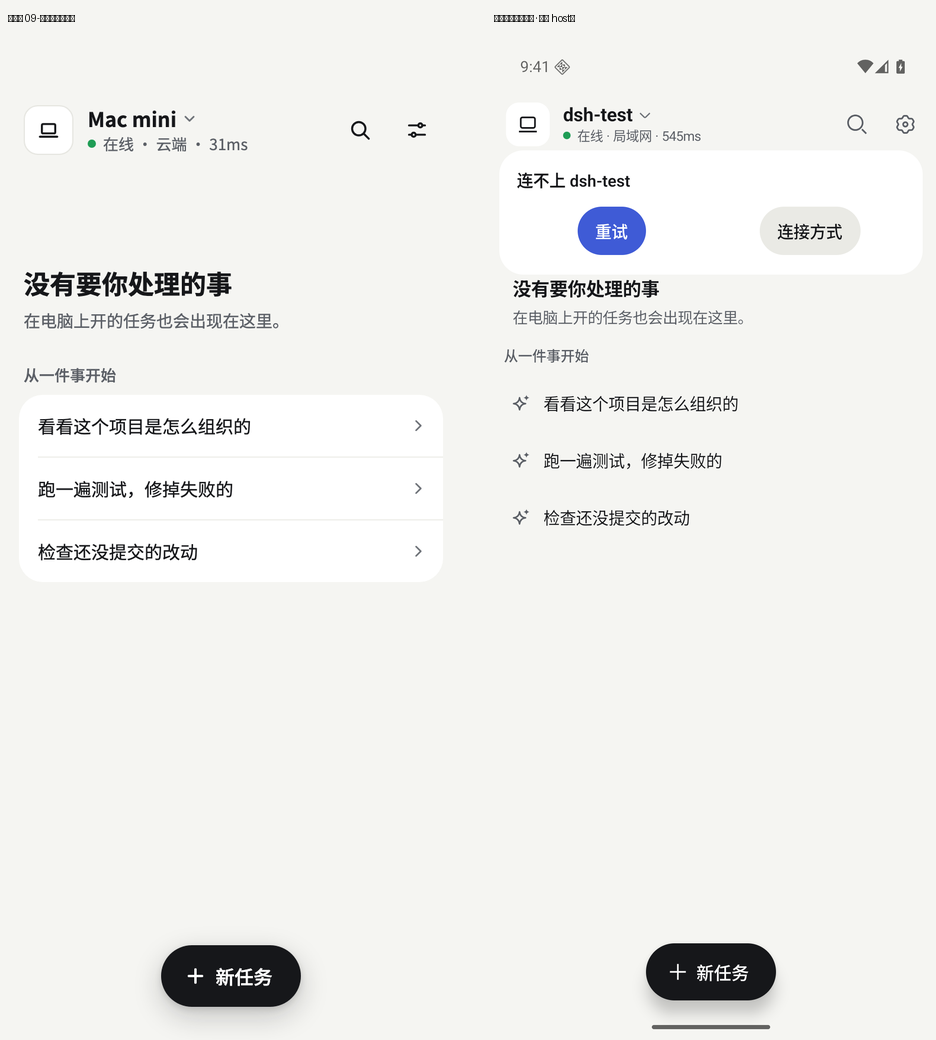
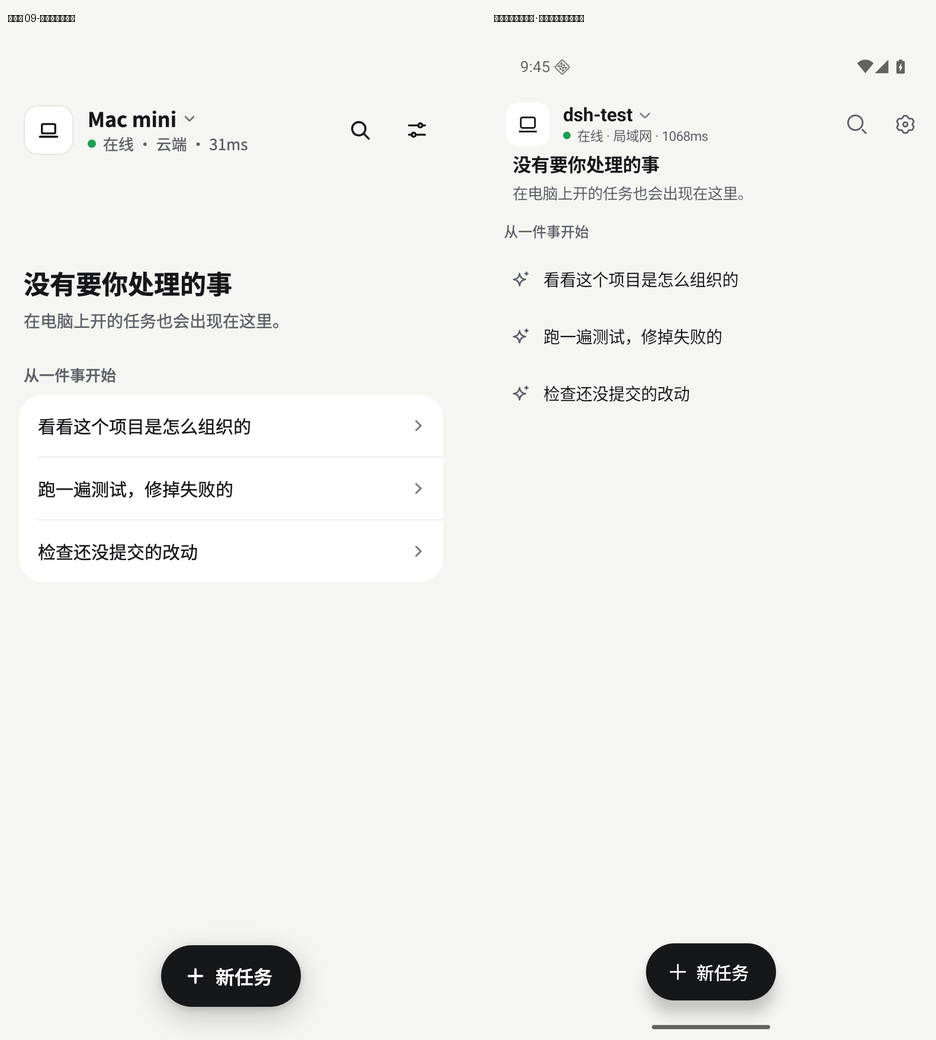
fix(android): 首页离线卡不再把「在线但空列表」当成连不上（隔离实例真机验证）
上一轮在模拟器 + 隔离 host 上抓到一处自相矛盾：顶栏「● 在线 · 局域网 · 545ms」，下面却显示
「连不上 dsh-test」离线卡 + 重试/连接方式。

根因：概况行/离线卡是一个 if-else——`if (online && scoped.isNotEmpty())` 画概况行，`else` 画离线卡。
于是「**在线但一条会话都没有**」（稿 09 空态）落进了 else，被当成离线。

改成 `else if (!online)`：在线且为空时两个都不画，空态自己就是结论（稿 09 就是这么画的）。

预算：注释会顶破我上一轮下调过的行数预算（322），所以实现里不写注释——说明放这里。
真机复验（重装 + 重启）：界面只剩「名称 / 在线 · 局域网 · 1068ms / 空态文案 / 三行起手式 /
新任务胶囊」，**离线卡消失** ✓；09 的实拍对照图随之更新（改成修好后的这一版）。

门禁五条全绿。

diff --git a/apps/android/app/src/main/java/dev/deeplinks/native/WorkspaceSidebar.kt b/apps/android/app/src/main/java/dev/deeplinks/native/WorkspaceSidebar.kt
@@ -182,7 +182,7 @@ internal fun WorkspaceSidebar(
                 onDeleteWorkspace = { actions.onDeleteWorkspace(it) },
                 onOpenArchived = onOpenArchived,
             )
-        } else {
+        } else if (!online) {
             HomeOfflineCard(
                 hostName = hostName,
                 sinceLabel = offlineSinceLabel,
